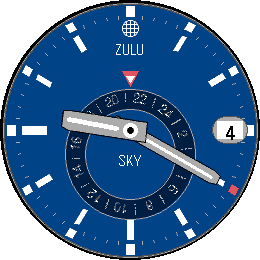
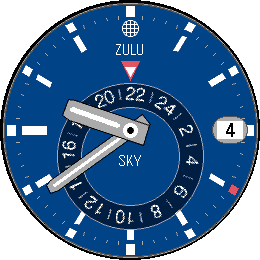
Refine GMT ring sizing, disc font, and date window alignment
Enlarge GMT ring (outer 65→73, thickness 20→24px), shift it down (offset 26) to create breathing room below ZULU label, increase disc number font to 18pt with 2x supersampled rendering, bump red pointer triangle, fix date text vertical centering, and remove old screenshot gitignore exclusion.

Changed region(s): [[0.1538, 0.2154, 0.8615, 0.8923], [0.8615, 0.4615, 0.8923, 0.5538]]

diff --git a/src/c/main.c b/src/c/main.c
@@ -27,10 +27,10 @@
 #define MARKER_INNER_R_QTR  83
 
 // GMT ring (off-center 24-hour annulus, shifted below dial center)
-#define GMT_DISC_OFFSET_Y   24
-#define GMT_RING_OUTER      65
-#define GMT_RING_INNER      45
-#define GMT_NUM_R           55
+#define GMT_DISC_OFFSET_Y   26
+#define GMT_RING_OUTER      73
+#define GMT_RING_INNER      49
+#define GMT_NUM_R           61
 
 // Hand dimensions
 #define HOUR_HAND_LEN       70
@@ -270,8 +270,8 @@ static void draw_gmt_ring(GContext *ctx, int hour_24, int minutes) {
     // Red inverted triangle pointer above the ring
     GPoint tri_pts[] = {
         GPoint(disc_center.x, disc_center.y - GMT_RING_OUTER - 1),
-        GPoint(disc_center.x - 9, disc_center.y - GMT_RING_OUTER - 18),
-        GPoint(disc_center.x + 9, disc_center.y - GMT_RING_OUTER - 18)
+        GPoint(disc_center.x - 10, disc_center.y - GMT_RING_OUTER - 22),
+        GPoint(disc_center.x + 10, disc_center.y - GMT_RING_OUTER - 22)
     };
     graphics_context_set_fill_color(ctx, GColorRed);
     GPathInfo tri_info = { .num_points = 3, .points = tri_pts };
@@ -282,8 +282,8 @@ static void draw_gmt_ring(GContext *ctx, int hour_24, int minutes) {
     // White inner triangle
     GPoint inner_pts[] = {
         GPoint(disc_center.x, disc_center.y - GMT_RING_OUTER - 5),
-        GPoint(disc_center.x - 5, disc_center.y - GMT_RING_OUTER - 13),
-        GPoint(disc_center.x + 5, disc_center.y - GMT_RING_OUTER - 13)
+        GPoint(disc_center.x - 6, disc_center.y - GMT_RING_OUTER - 16),
+        GPoint(disc_center.x + 6, disc_center.y - GMT_RING_OUTER - 16)
     };
     graphics_context_set_fill_color(ctx, GColorWhite);
     GPathInfo inner_info = { .num_points = 3, .points = inner_pts };
@@ -326,7 +326,7 @@ static void draw_date_window(GContext *ctx, int mday) {
     char date_buf[4];
     snprintf(date_buf, sizeof(date_buf), "%d", mday);
     graphics_context_set_text_color(ctx, GColorBlack);
-    GRect text_rect = GRect(cx - 14, cy - 14, 28, 24);
+    GRect text_rect = GRect(cx - 14, cy - 17, 28, 24);
     graphics_draw_text(ctx, date_buf,
         fonts_get_system_font(FONT_KEY_GOTHIC_24_BOLD),
         text_rect, GTextOverflowModeFill, GTextAlignmentCenter, NULL);

diff --git a/scripts/gen_gmt_disc.py b/scripts/gen_gmt_disc.py
@@ -14,18 +14,16 @@ import os
 from PIL import Image, ImageDraw, ImageFont
 
 # Must match constants in main.c
-GMT_RING_OUTER = 51
-GMT_RING_INNER = 35
-GMT_NUM_R = 43
+GMT_RING_OUTER = 73
+GMT_RING_INNER = 49
+GMT_NUM_R = 61
 
 # Render at 2x then downscale for cleaner edges
 SCALE = 2
-FINAL_SIZE = 2 * GMT_RING_OUTER + 6  # 108
+FINAL_SIZE = 2 * GMT_RING_OUTER + 4  # 150
 SIZE = FINAL_SIZE * SCALE
 CENTER = SIZE // 2
 NUM_R = GMT_NUM_R * SCALE
-DOT_R = GMT_NUM_R * SCALE
-DOT_SIZE = 2 * SCALE
 
 out_dir = os.path.join(os.path.dirname(__file__), '..', 'resources')
 os.makedirs(out_dir, exist_ok=True)
@@ -42,24 +40,25 @@ for fp in [
 ]:
     if os.path.exists(fp):
         try:
-            font = ImageFont.truetype(fp, 15 * SCALE)
+            font = ImageFont.truetype(fp, 18 * SCALE)
             break
         except Exception:
             continue
 if font is None:
     font = ImageFont.load_default()
 
-# Dots between numbers at odd hours
+# Tick marks at odd hours
 for h in range(0, 24):
     if h % 2 == 0:
         continue
     angle_rad = math.radians(h * 360 / 24)
-
-    x = CENTER + DOT_R * math.sin(angle_rad)
-    y = CENTER - DOT_R * math.cos(angle_rad)
-
-    draw.ellipse([(x - DOT_SIZE, y - DOT_SIZE), (x + DOT_SIZE, y + DOT_SIZE)],
-                 fill=(255, 255, 255, 255))
+    tick_r1 = (GMT_NUM_R - 5) * SCALE
+    tick_r2 = (GMT_NUM_R + 5) * SCALE
+    x1 = CENTER + tick_r1 * math.sin(angle_rad)
+    y1 = CENTER - tick_r1 * math.cos(angle_rad)
+    x2 = CENTER + tick_r2 * math.sin(angle_rad)
+    y2 = CENTER - tick_r2 * math.cos(angle_rad)
+    draw.line([(x1, y1), (x2, y2)], fill=(255, 255, 255, 200), width=SCALE)
 
 # Numbers at even hours, each rotated radially
 for h in range(0, 24, 2):
